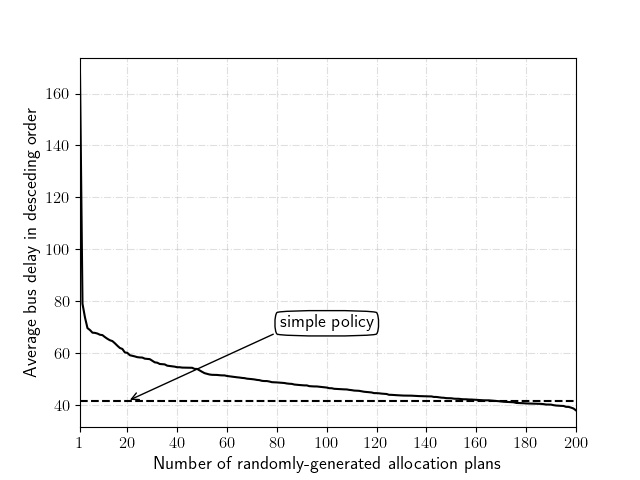
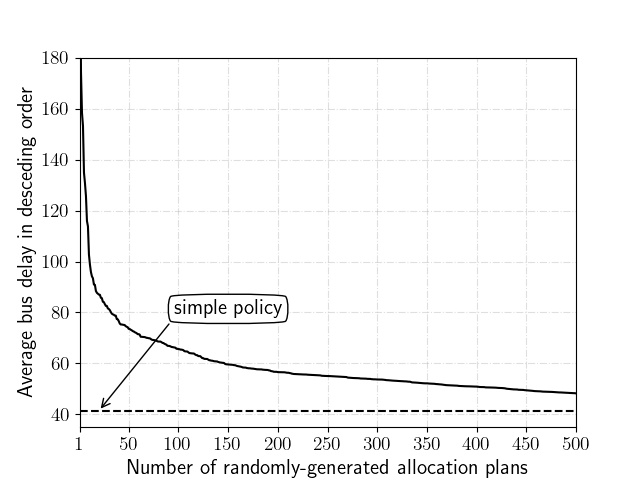
added perturb cases

diff --git a/plot_perturb.py b/plot_perturb.py
@@ -14,7 +14,7 @@ line_num = 12
 arrival_type = "Gaussian"
 queue_rule = "FO-Bus"
 signal_setting = None
-# signal_setting = (120, 0.5, 3)
+signal_setting = (120, 0.5, 3)
 
 db_query = {
     "config.queue_rule": queue_rule,
@@ -22,6 +22,13 @@ db_query = {
     "config.line_num": line_num,
     "config.arrival_type": arrival_type,
 }
+if signal_setting is None:
+    db_query["config.signal_setting"] = None
+else:
+    db_query["config.cycle_length"] = signal_setting[0]
+    db_query["config.green_ratio"] = signal_setting[1]
+    db_query["config.buffer_size"] = signal_setting[2]
+
 df = sacred_to_df(db.runs, db_query)
 df["delay"] = df["delay_seq"].apply(lambda x: x[-1] if isinstance(x, list) else None)
 ### perturb points
@@ -35,26 +42,28 @@ sorted_delays = -np.sort(-delays)
 ### simple-policy points
 simple_df = df[df["simple_policy_delay"].notna()]
 simple_delay = simple_df["simple_policy_delay"].values[0]
+print("the simple delay is:", simple_delay)
 
 ### generate figures for each queueing rule
 fig, ax = get_curve_plot(
     x_label="Number of randomly-generated allocation plans",
     y_label="Average bus delay in desceding order",
-    x_font=13,
-    y_font=13,
+    x_font=15,
+    y_font=15,
 )
 
 ### set range
 x = np.arange(1, len(delays) + 1, 1)
 x_ticks = [1]
-x_ticks.extend(list(np.arange(20, len(sorted_delays) + 1, 20)))
+x_ticks.extend(list(np.arange(50, len(sorted_delays) + 1, 50)))
 
 # ### plot
 # ax.set_ylim([1, 1.5])
 # # ax.set_xlim([1, x_range])
 ax.set_xticks(x_ticks)
-ax.tick_params(axis="both", which="major", labelsize=12)
-ax.set_xlim([1, 200])
+ax.tick_params(axis="both", which="major", labelsize=14)
+ax.set_xlim([1, 500])
+ax.set_ylim([35, 180])
 ax.plot(
     x,
     sorted_delays,
@@ -69,8 +78,8 @@ ax.plot(
 ax.annotate(
     "simple policy",
     xy=(20, simple_delay),
-    xytext=(100, simple_delay + 30),
-    size=13,
+    xytext=(150, simple_delay + 40),
+    size=15,
     va="center",
     ha="center",
     bbox=dict(boxstyle="round4", fc="w"),

diff --git a/signal_main_simple.py b/signal_main_simple.py
@@ -6,16 +6,12 @@ from sim_results import get_delay_of_continuous
 simple_ex = Experiment()
 
 if not simple_ex.observers:
-    simple_ex.observers.append(
-        MongoObserver(url="localhost:27017", db_name="perturb_stop")
-    )
+    simple_ex.observers.append(MongoObserver(url="localhost:27017", db_name="perturb_stop"))
 
 
 @simple_ex.config
 def config():
     seed = 1
-    # is_CNP = True  # True means using CNP, otherwise means perturbation
-
     # stop
     queue_rule = "FO-Bus"
     # queue_rule = "LO-Out"
@@ -36,7 +32,14 @@ def config():
     )
 
     # signal
-    signal_setting = None
+    cycle_length = 120
+    green_ratio = 0.5
+    buffer_size = 3
+    signal_setting = {
+        "cycle_length": cycle_length,
+        "green_ratio": green_ratio,
+        "buffer_size": buffer_size,
+    }
 
 
 @simple_ex.automain
@@ -59,7 +62,7 @@ def main(stop_setting, signal_setting):
         "berth_num": berth_num,
         "line_flow": line_flow,
         "line_service": line_service,
-        "signal": None,
+        "signal": signal_setting,
     }
     total_rho = sum(line_rho.values())
     evenest_point = [total_rho / berth_num] * berth_num

diff --git a/sim_results.py b/sim_results.py
@@ -1,3 +1,4 @@
+from collections import deque
 from miqp import get_closest_discrete_from_continuous
 from isolated_scenario import sim_one_isolated_scenario
 from signal_scenario import sim_one_NS_scenario
@@ -27,8 +28,18 @@ def get_delay_of_discrete_plan(assign_plan, run_df, sim_info=None):
             )
             return delay_seq[-1]
         else:
-            pass
-            # TODO
+            delay_seq = sim_one_NS_scenario(
+                sim_info["berth_num"],
+                sim_info["queue_rule"],
+                sim_info["line_flow"],
+                sim_info["line_service"],
+                False,
+                sim_info["signal"]["buffer_size"],
+                sim_info["signal"]["cycle_length"],
+                sim_info["signal"]["green_ratio"],
+                assign_plan,
+            )
+            return delay_seq[-1]
     else:
         assign_plan_str = str(assign_plan)
         query_str = "assign_plan_str==@assign_plan_str"

diff --git a/signal_main_perturb.py b/signal_main_perturb.py
@@ -1,10 +1,10 @@
 from sacred.observers import MongoObserver
 from concurrent import futures
 from arena import random_assign_plan_enumerator
-from experiment import ex
+from signal_experiment import signal_ex
 
 
-@ex.config
+@signal_ex.config
 def config():
     seed = 1
     queue_rule = "FO-Bus"
@@ -16,16 +16,17 @@ def config():
     mean_service = None
     set_no = None
     is_CNP = False  # True means using CNP, otherwise means perturbation
-
-    signal_setting = None
+    cycle_length = 120
+    green_ratio = 0.5
+    buffer_size = 3
 
 
 def run(assign_plan_str):
-    if not ex.observers:
-        ex.observers.append(
+    if not signal_ex.observers:
+        signal_ex.observers.append(
             MongoObserver(url="localhost:27017", db_name="perturb_stop")
         )
-    run = ex.run(config_updates={"assign_plan_str": assign_plan_str})
+    run = signal_ex.run(config_updates={"assign_plan_str": assign_plan_str})
 
 
 perturb_num = 500
